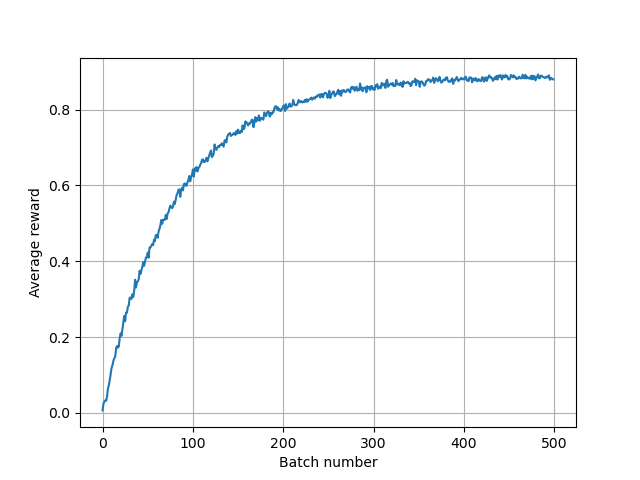
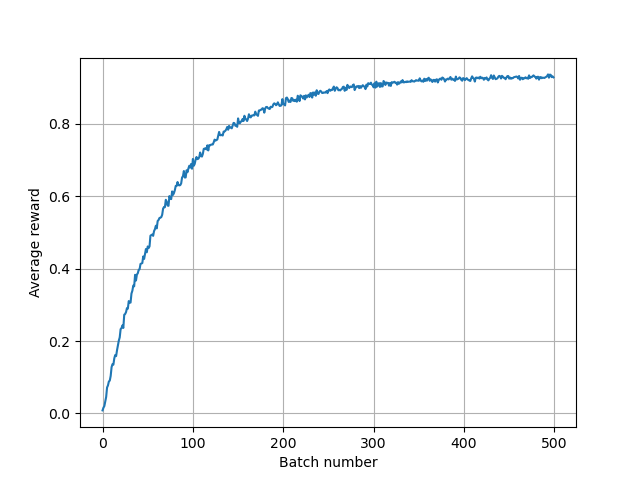
big update with some improvements to allow for humans to play against RL-based AIs

diff --git a/tictactoe/RLAgent.py b/tictactoe/RLAgent.py
@@ -1,20 +1,50 @@
 import random
 from tictactoe import *
+import pickle
+import datetime
 
 class RLAgent:
-    def __init__(self):
+    def __init__(self,game,playing_x=True):
         self.dummy=None
-        self.value_function={}
-        self.q_function={}
-        self.game=Game()
+        self.value_function={}       # value function v(s)
+        self.q_function={}           # action value function q(s,a)
+        self.game=game
         self.current_state=0
         self.previous_state=0
-        self.gamma=0.9
-        self.lambda_=1.0
-        self.decay=0.99
-        self.batch_size=10000
+        self.gamma=0.9               # discount factor for discounted rewards
+        self.lambda_=1.0             # explore/exploit parameter
+        self.decay=0.99              # for reducing lambda
+        self.batch_size=10000        # number of episodes per batch
         self.average_reward=[]
+        self.playing_x=playing_x
+
+    """
+    write value and Q function to pickle file
+    """
+    def save(self,tag):
+        f = open("Models/qfunc_"+tag+"_"+str(datetime.datetime.now()).replace(' ','_')+".pkl","wb")
+        pickle.dump(self.q_function,f)
+        f.close()
+
+        f = open("Models/vfunc_"+tag+"_"+str(datetime.datetime.now()).replace(' ','_')+".pkl","wb")
+        pickle.dump(self.value_function,f)
+        f.close()
+
+    """
+    load value and Q function from pickle file
+    """
+    def load(self,vfunc_file_name,qfunc_file_name):
+        f = open(vfunc_file_name,'rb')
+        self.value_function = pickle.load(f)
+        f.close()
+
+        f = open(qfunc_file_name,'rb')
+        self.q_function = pickle.load(f)
+        f.close()
         
+    """
+    implemention of an iterative update of the value function
+    """
     def iterate_value_function(self,state,reward):
         if not state in self.value_function:
             self.value_function[state] = [reward,1]
@@ -23,7 +53,9 @@ class RLAgent:
             count = self.value_function[state][1]
             self.value_function[state] = [ value + (1./count)*(reward - value) , count+1 ]
 
-
+    """
+    implementation of an iterative update of the action value function 
+    """
     def iterate_q_function(self,state,action,reward):
         if not state in self.q_function:
             self.q_function[state] = {action:[reward,1]}
@@ -35,16 +67,44 @@ class RLAgent:
                 count = self.q_function[state][action][1]
                 self.q_function[state][action] = [ value + (1./count)*(reward - value) , count+1 ]
 
-    def random_action(self):
+    def invert_board(self,board):
+        print('inverting ',' '.join(map(str,board)))
+        new_board=[0]*9
+        for i,val in enumerate(board):
+            if val == 0 : continue
+            elif val == 1 : new_board[i]=2
+            elif val == 2 : new_board[i]=1
+            else:
+                raise ValueError('board can only have values 0, 1, or 2')
+        print('new board ',' '.join(map(str,new_board)))
+        return new_board
+    
+    """
+    returns a random selection of empty spaces
+    """
+    def random_action(self,state):
+        self.game.state = state
+        self.game.decodeState()
         #pick an action at random
         action = random.randint(0,8)
         while not self.game.board[action]==0 :
             action = random.randint(0,8)
         return action
 
+    """ 
+    returns an action based on a policy
+    policy is given by \pi(s) = argmax_{a} q(s,a)
+    """
     def policy_action(self,state):
+        self.game.state = state
+        self.game.decodeState()
+        #self.game.print()
+        if not self.playing_x :
+            self.game.board = self.invert_board(self.game.board)
+            #self.game.print()
+            self.game.encodeState()
         if not state in self.q_function:
-            return self.random_action()
+            return self.random_action(state)
         else:
             max_action=-9
             max_q_value=-9999
@@ -53,8 +113,19 @@ class RLAgent:
                     max_q_value=self.q_function[state][key][0]
                     max_action=key
             return max_action
-        
-    def play(self,n_batches):
+
+    def play(self,state):
+        self.game.state = state
+        self.game.decodeState()
+        if random.randint(0,10000) < 10000*self.lambda_ :
+            return self.random_action(state)
+        else :
+            return self.policy_action(state)
+
+    """ 
+    function for training agent
+    """
+    def train(self,n_batches):
         for batch in range(n_batches):
             print("batch ",batch," of ",n_batches)
             self.average_reward.append(0)
@@ -64,13 +135,9 @@ class RLAgent:
                 self.current_state=self.game.state
                 self.previous_state=0
                 #print("- - - - - - - - ")
+                #self.game.print()
                 while not self.game.win() :
-
-                    if random.randint(0,10000) < 10000*self.lambda_ :
-                        action = self.random_action()
-                    else :
-                        action = self.policy_action(self.current_state)
-
+                    action=self.play(self.current_state)
                     #update state of game
                     self.previous_state = self.current_state
                     reward,self.current_state=self.game.step(action)
@@ -87,15 +154,14 @@ class RLAgent:
             # at end of batch update lambda
             self.lambda_*=self.decay
             print('avg reward:',self.average_reward[-1])
-            
-        #print(len(self.value_function))
-        #print(self.value_function)
-        # for key in self.q_function :
-        #     print(" - - - - - - - - - - - - - - - - - - - - - - - -")
-        #     print("state: ",key)
-        #     self.game.state = key
-        #     self.game.decodeState()
-        #     self.game.print()
-        #     print(self.q_function[key])
 
+    def dumpQ(self):
+        for key in self.q_function :
+            print(" - - - - - - - - - - - - - - - - - - - - - - - -")
+            print("state: ",key)
+            self.game.state = key
+            self.game.decodeState()
+            self.game.print()
+            print(self.q_function[key])
 
+    

diff --git a/tictactoe/tictactoe.py b/tictactoe/tictactoe.py
@@ -1,13 +1,13 @@
 import random
-from RandomAgent import *
+
 class Game:
 
-    def __init__(self):
+    def __init__(self,agent):
         self.boardSize=3
         self.board = [0]*self.boardSize**2
         self.state = 0
         self.first_prob = 0.5
-        self.game_ai = RandomAgent()
+        self.game_ai = agent
         self.win_combo = {"H1":[0,1,2],
                           "H2":[3,4,5],
                           "H3":[6,7,8],
@@ -44,10 +44,13 @@ class Game:
     with probability 1-self.first_prob have game AI play first
     """
     def reset(self):
+        #print('Game.reset()')
         self.board = [0]*9
+        self.encodeState()
         if random.randint(0,1000) >= 1000*self.first_prob :
-            action = self.game_ai.play(self.board)
+            action = self.game_ai.play(self.state)
             self.board[action]=2
+        self.encodeState()
             
     """function that returns the status of the 
        game.
@@ -97,7 +100,7 @@ class Game:
             if not self.win()==0: break
 
             #allow game ai to play...
-            r=self.game_ai.play(self.board)
+            r=self.game_ai.play(self.state)
             self.board[r]=2
             self.encodeState()
 
@@ -130,9 +133,11 @@ class Game:
         else:
             self.board[action]=1
             self.encodeState()
+            #print("Game.step()")
+            #self.print()
             if self.win()==0: 
                 #allow game ai to play...
-                r=self.game_ai.play(self.board)
+                r=self.game_ai.play(self.state)
                 self.board[r]=2
                 self.encodeState()
 

diff --git a/tictactoe/simulator.py b/tictactoe/simulator.py
@@ -1,15 +1,13 @@
-import datetime
+
 import matplotlib.pyplot as plt
-import random 
-import pickle
-from utils import *
-from RandomAgent import *
 from RLAgent import *
+from RandomAgent import *
 from tictactoe import *
 
 n_batches=500
-a = RLAgent()
-a.play(n_batches) ## 100 batches of 1000 episodes
+g = Game(RandomAgent(Game(None)))
+a = RLAgent(g)
+a.train(n_batches) ## 100 batches of 1000 episodes
 
 plt.plot(range(n_batches),a.average_reward)
 plt.grid()
@@ -18,10 +16,4 @@ plt.ylabel("Average reward")
 plt.savefig("TDL_tictactoe.png")
 plt.show()
 
-f = open("Models/qfunc_"+str(datetime.datetime.now()).replace(' ','_')+".pkl","wb")
-pickle.dump(a.q_function,f)
-f.close()
-
-f = open("Models/vfunc_"+str(datetime.datetime.now()).replace(' ','_')+".pkl","wb")
-pickle.dump(a.value_function,f)
-f.close()
+a.save('500')

diff --git a/tictactoe/RandomAgent.py b/tictactoe/RandomAgent.py
@@ -1,11 +1,16 @@
 import random
 
 class RandomAgent :
-    def __init(self):
+    def __init__(self,game):
         self.dummy=None
-
+        self.game=game
+        
     def play(self,state):
+        #print("RandomAgent.play -- state:",state)
+        self.game.state = state
+        self.game.decodeState()
+        #self.game.print()
         r = random.randint(0,8)
-        while not state[r]==0 :
+        while not self.game.board[r]==0 :
             r = random.randint(0,8)
         return r

diff --git a/tictactoe/README.md b/tictactoe/README.md
@@ -69,8 +69,10 @@ clear the board and with 50% probability let the computer play first.
 # Benchmark Reinforcement (RL) Agents
 
 Currently only one benchmark RL Agents has been developed for learning
-tic-tac-toe. This agent implements a TD-$\lambda$ type algorithm. See
-`RLAgent` defined in `RLAgent.py`.  
+tic-tac-toe. This agent implements a TD(0) type algorithm. See
+`RLAgent` defined in `RLAgent.py`.  The agent maintains a Q-value
+functiion and continuously update an $\epsilon$-greedy policy base on
+Q-values.  
 
 This class maintains both a value 
 function, `RLAgent.value_function`, and a Q value function, 
